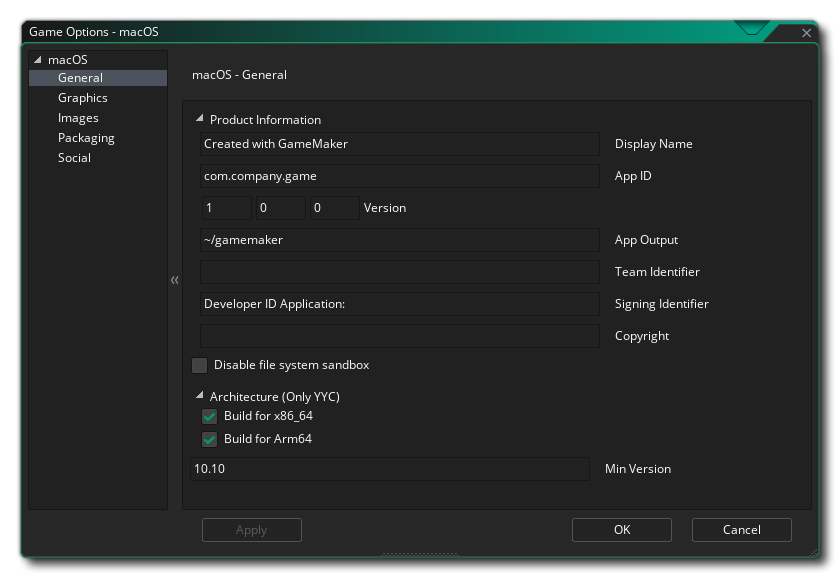
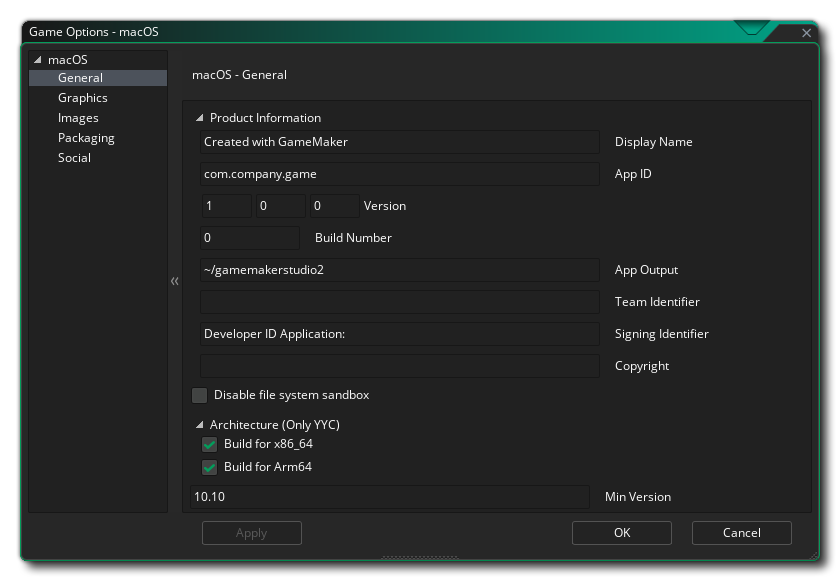
[Feature]Game Options: [iOS] Add a Build Number field along with the version number * Added to macOS, iOS & tvOS Game Options pages * Updated screenshot on macOS Game Options page (others already updated for YoYoGames/GameMaker-Bugs#2027)

diff --git a/Manual/contents/Settings/Game_Options/macOS.htm b/Manual/contents/Settings/Game_Options/macOS.htm
@@ -4,7 +4,7 @@
 <head>
   <meta http-equiv="Content-Type" content="text/html; charset=utf-8" />
   <title>macOS</title>
-  <meta name="generator" content="Adobe RoboHelp 2020" />
+  <meta name="generator" content="Adobe RoboHelp 2022" />
   <link rel="stylesheet" href="../../assets/css/default.css" type="text/css" />
   <script src="../../assets/scripts/main_script.js" type="module"></script>
   <meta name="rh-authors" content="Mark Alexander" />
@@ -17,7 +17,7 @@
   <h1><span data-field="title" data-format="default">macOS</span> Game Options</h1>
   <p>This section outlines the different options available to you that control how your macOS game projects will be compiled. The different sections are:</p>
   <h2>General</h2>
-  <p><img alt="Mac General Options" class="center" src="../../assets/Images/Settings/Game_Options/Mac_General_Options.png" />In the <strong>Product Information </strong>section, the first thing to do is fill in the <strong>Display Name </strong>of your game then fill in its, <strong>App ID</strong>, <strong>Version Number</strong>, <strong>App Output file</strong> and the <strong>Copyright</strong> details. The App Output is the location to which your game installation files go to on your Mac development machine. When you create your <span class="inline">.app.zip</span>, that file can go anywhere (the location you specify when doing the save dialogue is not the only copy made of that <span class="inline">.app.zip</span>), but the <span class="inline">.pkg</span> and other files are left in this folder, permitting you to test local installations via Terminal in such a way as to simulate Mac Store purchasing, etc.</p>
+  <p><img alt="Mac General Options" class="center" src="../../assets/Images/Settings/Game_Options/Mac_General_Options.png" />In the <strong>Product Information </strong>section, the first thing to do is fill in the <strong>Display Name </strong>of your game then fill in its, <strong>App ID</strong>, <strong>Version Number</strong>, <strong>Build Number</strong>, <strong>App Output file</strong> and the <strong>Copyright</strong> details. The App Output is the location to which your game installation files go to on your Mac development machine. When you create your <span class="inline">.app.zip</span>, that file can go anywhere (the location you specify when doing the save dialogue is not the only copy made of that <span class="inline">.app.zip</span>), but the <span class="inline">.pkg</span> and other files are left in this folder, permitting you to test local installations via Terminal in such a way as to simulate Mac Store purchasing, etc.</p>
   <p>Here you also need to give the <strong>Team Identifier</strong> that you wish to use for signing the final application that <span data-keyref="GameMaker Name">GameMaker</span> creates for you. Setting it here will override the Team ID that you have supplied in the <a href="../../Setting_Up_And_Version_Information/Platform_Preferences/macOS.htm">macOS Preferences</a>. After the Team Identifier you also have the option to supply the <strong>Signing Identifier</strong>, which is required by Apple for all non-appstore applications (like Steam games, for example).</p>
   <p>Then you have the option to <strong>Disable file system sandbox</strong>. Checking this will disable the <span data-keyref="GameMaker Name">GameMaker</span> sandboxing for saving and loading files, permitting your games to access files from anywhere on the system running the game. This option is unchecked by default, as we recommend that you maintain the <span data-keyref="GameMaker Name">GameMaker</span> sandbox for files on all systems and when checked, some save/load areas may still not be available depending on the OS-level permissions. For more information on the sandbox, please see the pages on the <span data-keyref="GameMaker Name">GameMaker</span> <a href="../../Additional_Information/The_File_System.htm">File System</a>.</p>
   <p>You can select the architectures that your final YYC build will support. &quot;<strong>Min Version</strong>&quot; is the minimum version of macOS that the game can be played on.</p>

diff --git a/Manual/contents/Settings/Game_Options/tvOS.htm b/Manual/contents/Settings/Game_Options/tvOS.htm
@@ -17,7 +17,7 @@
   <h1><span data-field="title" data-format="default">tvOS</span> Game Options</h1>
   <p>This section outlines the different options available to you that control how your tvOS game projects will be compiled. The different sections are:</p>
   <h2>General</h2>
-  <p><img alt="iOS General Options" class="center" src="../../assets/Images/Settings/tvOS_General_Options.png" />Here you can fill in the <strong>Product Information</strong> about your game, including its <strong>Display Name</strong>, its <strong>Bundle ID</strong> and the <strong>Version </strong>info. Note that the Bundle ID must be in the correct reverse URL format for the final build of the game to work correctly, e.g. <span class="inline">com.[Company].[GameName]</span>. You can also set the <strong>App Output</strong> location on the build Mac, and you can give the <strong>Team Identifier</strong> that you wish to use for signing the final application that <span data-keyref="GameMaker Name">GameMaker</span> creates for you. Setting it here will override the Team ID that you have supplied in the <a href="../../Setting_Up_And_Version_Information/Platform_Preferences/tvOS.htm">tvOS Preferences</a>.</p>
+  <p><img alt="iOS General Options" class="center" src="../../assets/Images/Settings/tvOS_General_Options.png" />Here you can fill in the <strong>Product Information</strong> about your game, including its <strong>Display Name</strong>, its <strong>Bundle ID,</strong> <strong>Version </strong>info and <strong>Build Number</strong>. Note that the Bundle ID must be in the correct reverse URL format for the final build of the game to work correctly, e.g. <span class="inline">com.[Company].[GameName]</span>. You can also set the <strong>App Output</strong> location on the build Mac, and you can give the <strong>Team Identifier</strong> that you wish to use for signing the final application that <span data-keyref="GameMaker Name">GameMaker</span> creates for you. Setting it here will override the Team ID that you have supplied in the <a href="../../Setting_Up_And_Version_Information/Platform_Preferences/tvOS.htm">tvOS Preferences</a>.</p>
   <p>Below that is the <strong>CocoaPods</strong> option. Check it to automate building using the <a href="https://cocoapods.org/">CocoaPods</a> dependency manager. For detailed information, see the following guide:</p>
   <ul class="colour">
     <li><a href="https://help.yoyogames.com/hc/en-us/articles/360008958858">iOS and tvOS: Using Cocoa Pods</a></li>

diff --git a/Manual/contents/Settings/Game_Options/iOS.htm b/Manual/contents/Settings/Game_Options/iOS.htm
@@ -17,7 +17,7 @@
   <h1><span data-field="title" data-format="default">iOS</span> Game Options</h1>
   <p>This section outlines the different options available to you that control how your iOS game projects will be compiled. The different sections are:</p>
   <h2>General</h2>
-  <p><img alt="iOS General Options" class="center" src="../../assets/Images/Settings/iOS_General_Options.png" />The first part of the General section covers the <strong>Product Information</strong> about your game, including its <strong>Display Name</strong>, its <strong>Bundle Name</strong> and the <strong>Version</strong> info. Note that the Bundle Name must be in the correct reverse URL format for the final build of the game to work correctly, e.g. <span class="inline">com.[Company].[GameName]</span>. Here you can also give the <strong>Team Identifier</strong> that you wish to use for signing the final application that <span data-keyref="GameMaker Name">GameMaker</span> creates for you. Setting it here will override the Team ID that you have supplied in the <a href="../../Setting_Up_And_Version_Information/Platform_Preferences/iOS.htm">iOS Preferences</a>.</p>
+  <p><img alt="iOS General Options" class="center" src="../../assets/Images/Settings/iOS_General_Options.png" />The first part of the General section covers the <strong>Product Information</strong> about your game, including its <strong>Display Name</strong>, its <strong>Bundle Name</strong>, <strong>Version</strong> info and <strong>Build Number</strong>. Note that the Bundle Name must be in the correct reverse URL format for the final build of the game to work correctly, e.g. <span class="inline">com.[Company].[GameName]</span>. Here you can also give the <strong>Team Identifier</strong> that you wish to use for signing the final application that <span data-keyref="GameMaker Name">GameMaker</span> creates for you. Setting it here will override the Team ID that you have supplied in the <a href="../../Setting_Up_And_Version_Information/Platform_Preferences/iOS.htm">iOS Preferences</a>.</p>
   <p>The second thing to do is fill in the <strong>Build Settings</strong> for your game. To start with you set the allowed <strong>Orientation</strong>s that your game can be run on for the best user experience. The available options are:</p>
   <ul class="colour">
     <li>Allow portrait orientation</li>
